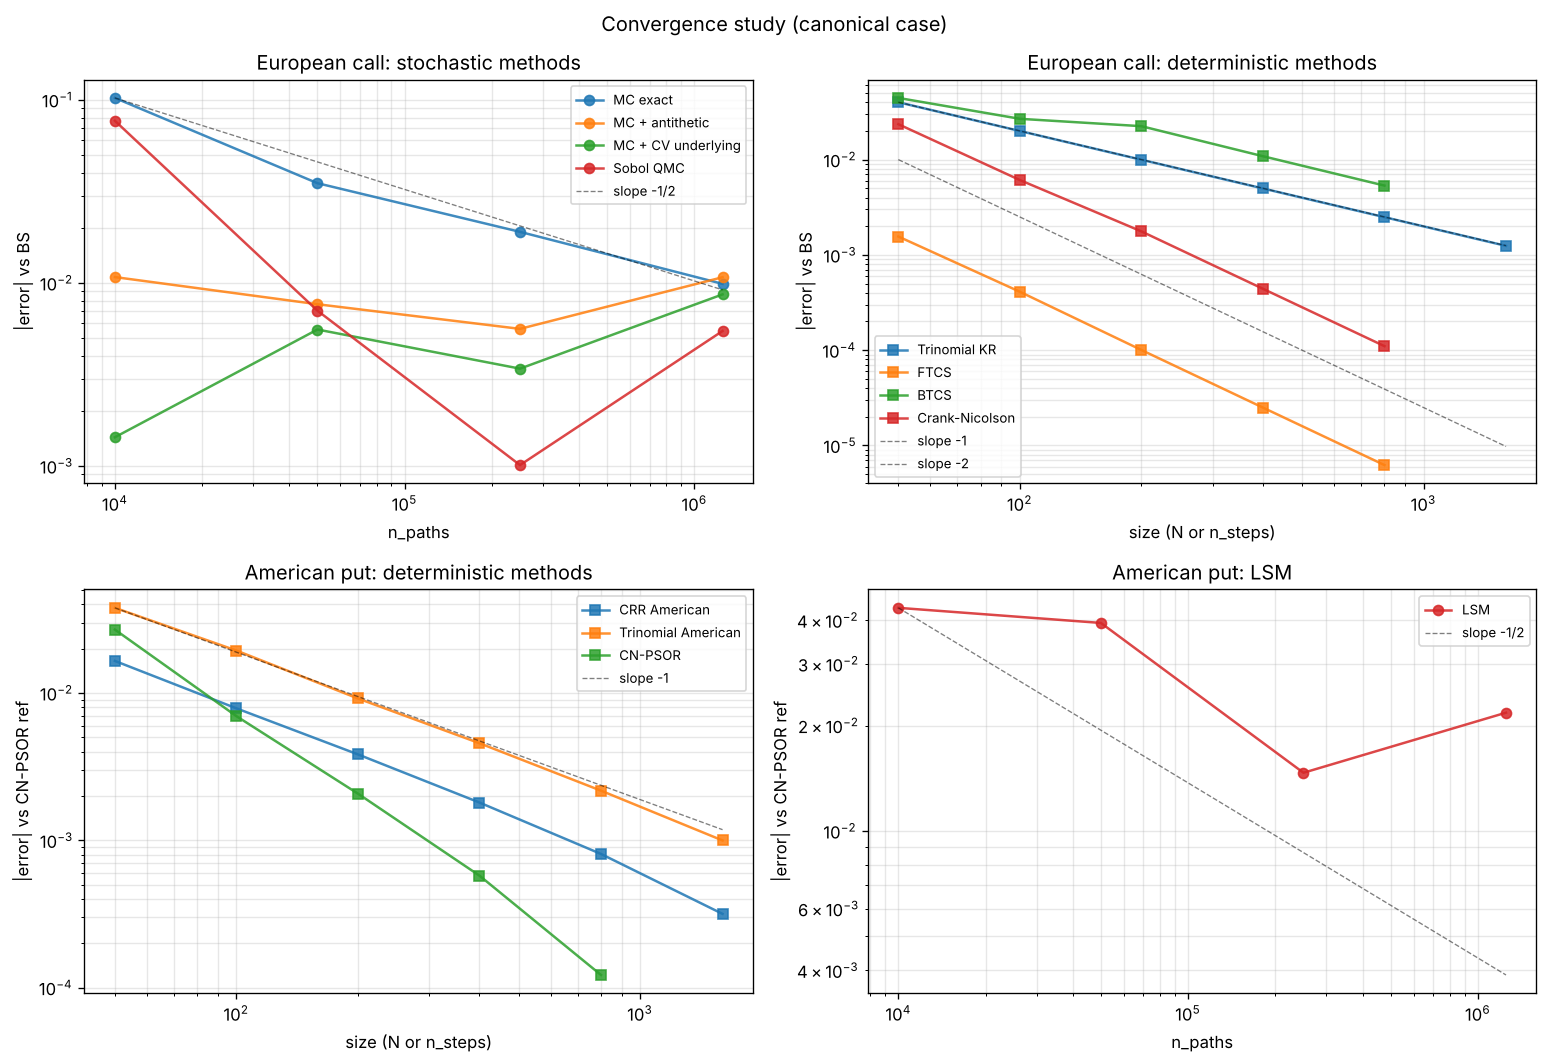
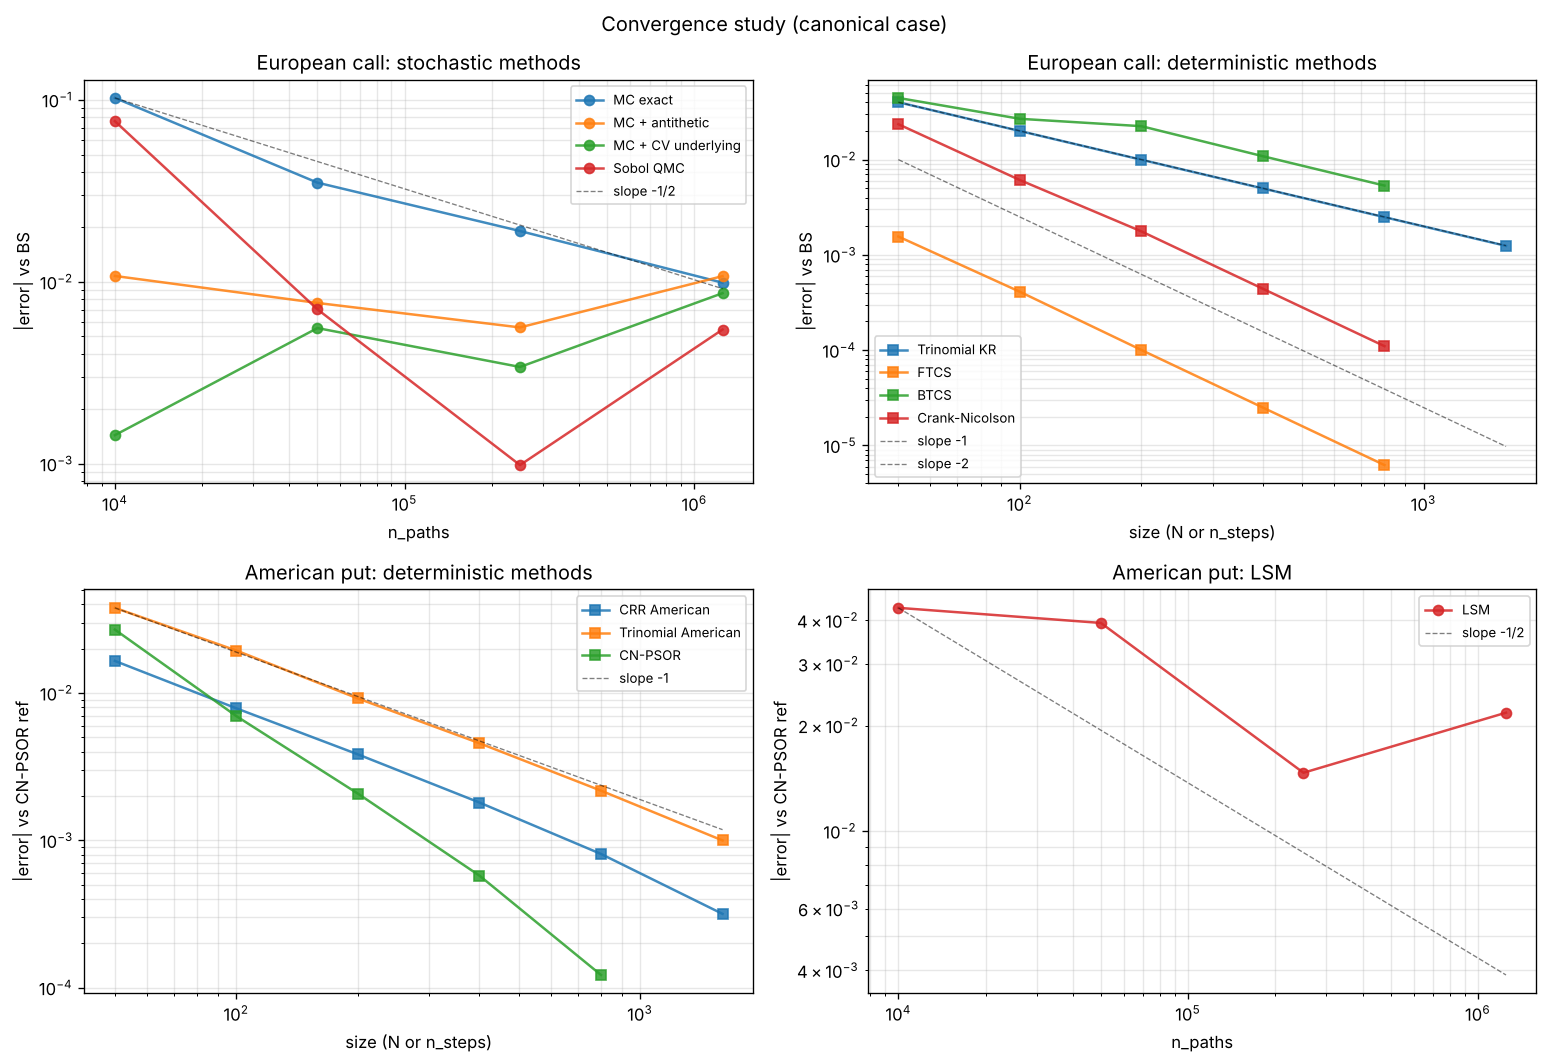
Fix deterministic Sobol pricer at higher volatility: skip the origin
The unscrambled Sobol sequence starts at the origin, which the inverse
normal maps to -infinity in every coordinate. After clipping, that path
had Z of about -37.5 at each step, and for sigma above roughly 0.25 the
Euler factor became large and negative, so a single path dominated the
average (the high-volatility benchmark row was 5182.12 against a
Black-Scholes price of 18.02). The Python pricer now drops the first
point, as the C++ generator already did.

- qmc.sobol gains a skip argument; the deterministic pricer uses skip=1
- validate_mc_european_qmc.py: Test 5 checks Sobol against RQMC for
  sigma in {0.3, 0.4, 0.6}
- test_qmc.cpp: regression test at the same volatilities
- results/phase3 regenerated (high-vol deterministic QMC: 18.061)

diff --git a/python/quantlib/qmc.py b/python/quantlib/qmc.py
@@ -40,6 +40,7 @@ theory/phase2/mc_european_qmc.tex (this implementation). Glasserman,
 """
 
 import math
+import warnings
 
 import numpy as np
 from scipy.stats import qmc, norm
@@ -120,8 +121,8 @@ def halton(n: int, d: int) -> np.ndarray:
 # =====================================================================
 
 def sobol(n: int, d: int, *, scramble: bool = False,
-          seed=None) -> np.ndarray:
-    """Generate the first n entries of the d-dimensional Sobol sequence.
+          seed=None, skip: int = 0) -> np.ndarray:
+    """Generate n entries of the d-dimensional Sobol sequence.
 
     Uses scipy.stats.qmc.Sobol, which loads the Joe-Kuo direction-number
     tables internally (covering dimensions up to 21201).
@@ -142,6 +143,11 @@ def sobol(n: int, d: int, *, scramble: bool = False,
         digital shift externally.
     seed : optional
         Seed for the scrambling, if scramble=True.
+    skip : int, default 0
+        Number of initial points to discard. The unscrambled sequence
+        starts at the origin, which Phi^{-1} maps to -infinity in every
+        coordinate; the deterministic pricer uses skip=1, as the C++
+        generator does.
 
     Returns
     -------
@@ -151,9 +157,20 @@ def sobol(n: int, d: int, *, scramble: bool = False,
         raise ValueError("n must be at least 1")
     if d < 1:
         raise ValueError("d must be at least 1")
+    if skip < 0:
+        raise ValueError("skip must be non-negative")
 
     sampler = qmc.Sobol(d=d, scramble=scramble, seed=seed)
-    return sampler.random(n)
+    if not skip:
+        return sampler.random(n)
+    # After skipping, scipy warns that the balance properties need n to
+    # be a power of 2 counted from the start of the sequence. Dropping
+    # only the origin is the usual remedy (the C++ generator does the
+    # same), so the warning is silenced here.
+    sampler.fast_forward(skip)
+    with warnings.catch_warnings():
+        warnings.filterwarnings("ignore", message=".*balance properties.*")
+        return sampler.random(n)
 
 
 # =====================================================================
@@ -224,16 +241,21 @@ def mc_european_call_euler_qmc(S, K, r, sigma, T, n_paths,
     if sequence == "halton":
         u = halton(n_paths, n_steps)
     elif sequence == "sobol":
-        u = sobol(n_paths, n_steps, scramble=False)
+        # Skip the first point: it is the origin, which Phi^{-1} maps to
+        # -infinity in all n_steps coordinates. Clipping it to the
+        # smallest double gives Z ~ -37.5 per step, and for sigma above
+        # about 0.25 the Euler factor 1 + r h + sigma sqrt(h) Z becomes
+        # large and negative, so one path can dominate the average.
+        u = sobol(n_paths, n_steps, scramble=False, skip=1)
     else:
         raise ValueError(
             f"sequence must be 'halton' or 'sobol', got {sequence!r}"
         )
 
-    # Avoid u = 0 or u = 1, which would map to +/- infinity under
-    # Phi^{-1}. This can happen at the first Sobol point (which is
-    # the origin) or at the radical inverse boundaries. We clip into
-    # the open interval with a small epsilon.
+    # Guard against u = 0 or u = 1, which would map to +/- infinity
+    # under Phi^{-1}. Neither sequence produces them here (Halton starts
+    # at index 1 and the Sobol origin is skipped), so this is only a
+    # safety net.
     eps = np.finfo(np.float64).tiny
     u = np.clip(u, eps, 1.0 - eps)
 

diff --git a/python/validate_mc_european_qmc.py b/python/validate_mc_european_qmc.py
@@ -21,6 +21,15 @@ Implements four tests:
   Test 4: Input validation.
     Mechanical: bad inputs should raise.
 
+  Test 5: Deterministic QMC at higher volatility.
+    At sigma = 0.3, 0.4 and 0.6 the deterministic Sobol estimate must
+    agree with a high-precision RQMC estimate of the same Euler price.
+    Guards against points at (or clipped near) the origin, which
+    Phi^{-1} maps to extreme normals that one path can turn into a huge
+    payoff. Halton is printed for comparison but not tested: unscrambled
+    Halton in dimension 20 has strongly correlated high coordinates and
+    is off by 0.5-1% at n = 2^16, a known limitation rather than a bug.
+
 Run from python/:
     python validate_mc_european_qmc.py
 """
@@ -255,6 +264,30 @@ def test_halfwidth_vs_iid() -> bool:
 # Test 4: input validation
 # =====================================================================
 
+def test_high_vol_deterministic() -> bool:
+    print("[Test 5] Deterministic QMC at higher volatility")
+    ok = True
+    for sig in (0.3, 0.4, 0.6):
+        ref = mc_european_call_euler_rqmc(
+            S0, K, r, sig, T, 2**14, n_steps=N_STEPS,
+            n_replications=32, seed=2026)
+        tol = 3.0 * ref.half_width + 2e-3 * ref.estimate
+        for seq in ("sobol", "halton"):
+            est = mc_european_call_euler_qmc(
+                S0, K, r, sig, T, 2**16, n_steps=N_STEPS, sequence=seq)
+            err = abs(est - ref.estimate)
+            if seq == "sobol":
+                passed = err < tol
+                ok &= passed
+                tag = _format_pass_fail(passed)
+            else:
+                tag = "(not tested)"
+            print(f"    sigma={sig:.1f} {seq:6s}: QMC = {est:.4f}, "
+                  f"RQMC = {ref.estimate:.4f} +/- {ref.half_width:.4f}, "
+                  f"|diff| = {err:.4f} (tol {tol:.4f}) {tag}")
+    return ok
+
+
 def test_input_validation() -> bool:
     print("\n" + "=" * 78)
     print("TEST 4: Input validation")
@@ -317,6 +350,7 @@ def main():
         "Test 2 (BS coherence of RQMC)"    : test_bs_coherence_rqmc(c_euler),
         "Test 3 (half-width vs IID)"       : test_halfwidth_vs_iid(),
         "Test 4 (input validation)"        : test_input_validation(),
+        "Test 5 (deterministic QMC, high vol)": test_high_vol_deterministic(),
     }
 
     print("\n" + "=" * 78)

diff --git a/cpp/tests/test_qmc.cpp b/cpp/tests/test_qmc.cpp
@@ -288,3 +288,21 @@ TEST_CASE("QMC-Sobol pricer: consistent with BS at moderate budget",
          << ", err = " << std::abs(est - bs_price));
     REQUIRE(std::abs(est - bs_price) < 0.5);
 }
+
+TEST_CASE("QMC-Sobol pricer: no extreme path at higher volatility",
+          "[qmc][sobol][bs]") {
+    // The Sobol origin maps to -infinity under Phi^{-1}; the generator
+    // skips it. Were it kept (or clipped near 0), one path would carry a
+    // normal of about -37 in every step and, for sigma above about 0.25,
+    // dominate the average. The Python pricer had this problem.
+    constexpr double S = 100.0, K = 100.0, r = 0.05, T = 1.0;
+    for (double sigma : {0.3, 0.4, 0.6}) {
+        const double bs_price = quant::call_price(S, K, r, sigma, T);
+        const double est = quant::mc_european_call_euler_qmc(
+            S, K, r, sigma, T, 65536, 20, "sobol");
+        // Euler bias with 20 steps is below 1% of the price here.
+        INFO("sigma = " << sigma << ", Sobol = " << est
+             << ", BS = " << bs_price);
+        REQUIRE(std::abs(est - bs_price) < 0.01 * bs_price);
+    }
+}
